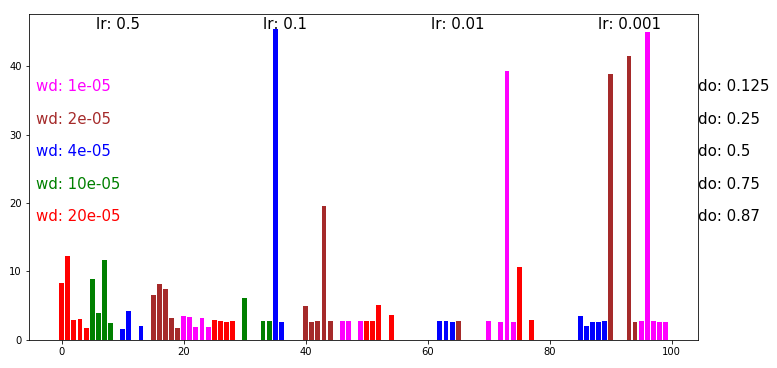
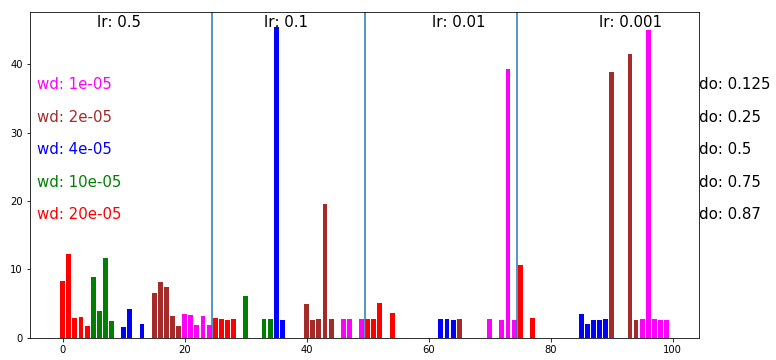
add histograms of control

diff --git a/docs/gridsearch.md b/docs/gridsearch.md
@@ -52,13 +52,46 @@ Average flying distance over 20 flights:
 
 Only few of the networks trained without crash actually performs well. Due to this low number of succes networks it seems unlikely that we can draw proper conclusions. 
 
-A high weight decay seems to make a proper learning too hard. 
+A high **weight decay** seems to make it impossible to train a network that performs well online.
 
-It is not super clear, but especially with a high learning rate, a higher dropout keep probability or so less severe regularization with dropout tends to a better online performance. Though again this is arguable as the trend is different with a lower learning rate.
+It is not super clear, but especially with a high learning rate, a **higher dropout keep probability**, in other words less severe regularization with dropout, tends to a better online performance. Though again this is arguable as the trend is different with a lower learning rate. But when we look at models that did learn something we see that this is possible with a dropout keep prob of 0.87, 0.75 and even 0.25 (73).
 
 A very low learning rate and longer training might positively influence the learning stability. A similar effect might be visible with a larger batchsize but without the need for extreme long training. The models trained at 0.001 took around 3 to 4 days to train offline with batchsize 32. 
 
-With a batchsize of 64 or 128, the amount of episodes should be 2 to 4 times less making the model converge hopefully in less than 1 day. __TODO__ increase batchsize as big as possible while it fits on a 2g GPU. According to this relative increase the learning rate can be increased keeping stability at an equal level resulting in a faster convergence.
+With a batchsize of 64 or 128, the amount of episodes should be 2 to 4 times less making the model converge hopefully in less than 1 day. The batchsize that fits on a 2g GPU with a mobilenet 0.25 network is 256. This will decrease the amount of episodes required for convergence and increase stability in case of higher learning rates. 
+
+A higher learning rate is in general preferable as long as it does not lead to divergence of the performance.
+
+|i|LR|BS|
+|-|-|-|
+|0|0.5|16|
+|1|0.5|32|
+|2|0.5|64|
+|3|0.5|128|
+|4|0.1|16|
+|5|0.1|32|
+|6|0.1|64|
+|7|0.1|128|
+|8|0.05|16|
+|9|0.05|32|
+|10|0.05|64|
+|11|0.05|128|
+|12|0.01|16|
+|13|0.01|32|
+|14|0.01|64|
+|15|0.01|128|
+
+Training with different batchsizes and learning rates gives the following tendency: the higher the learning rate the lower the validation loss (offline) but not necessarily the better the policy. The only policy capable of flying through the canyon was nr 5. The policy with the lowest validation loss was nr 2, though when testing online this policy couldn't successfully fly through any canyon.
+
+This shows how the validation loss is not representative for the offline training which is problematic in the case of hyperparameter tuning. A new set of validation data should be created that covers the variance expected when flying online. 
+
+![Variance in control in canyon-forest-sandbox dataset]({{ "/imgs/18-01-03-histograms_ctr_canyon_forest_sandbox.png" | absolute_url }})
+
+
+A second question is whether the model with the lowest validation imitation loss is be capable of flying online through training/validation worlds. This I strongly doubt as the policy performed bad in 10 different canyons, not showing any intention to avoid collision.
+
+While creating a new offline validation set, variance is checked over 10 versions of hyperparameter 5. Finished around 20:00.
+
 
 
 #### Check condor failure cases
